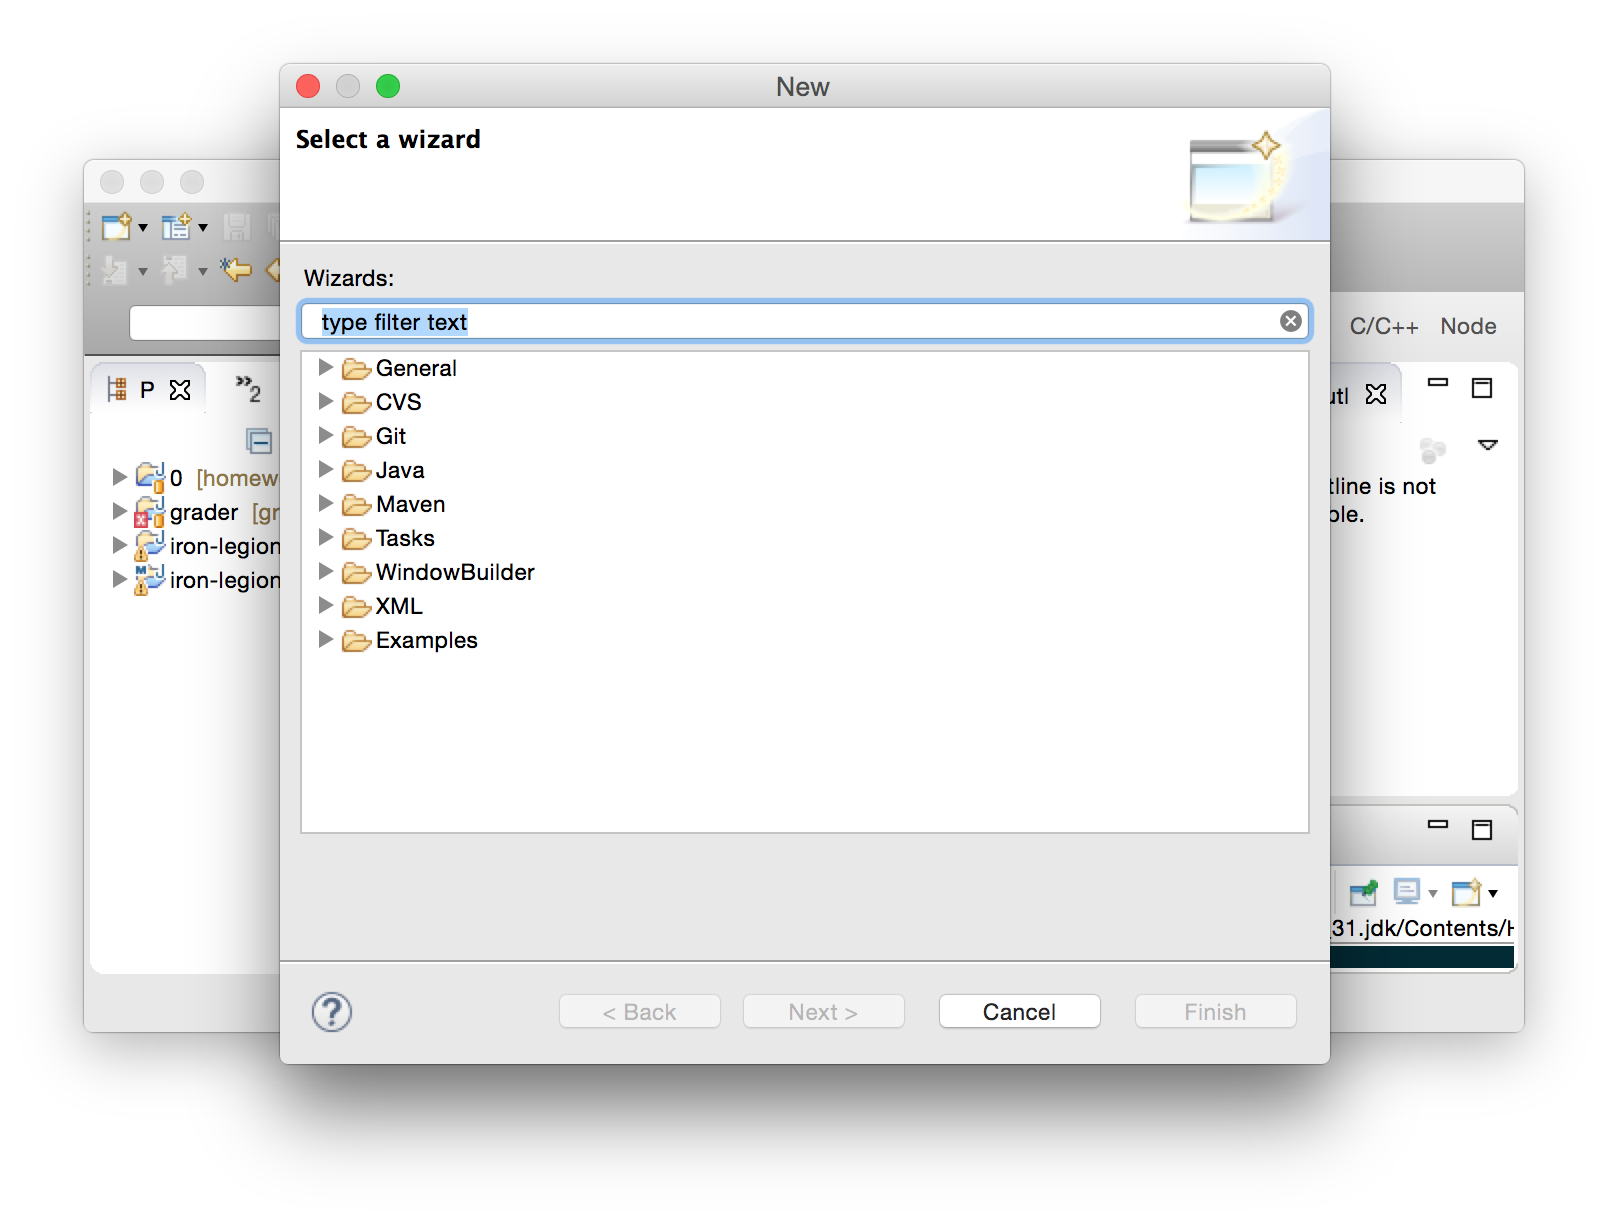
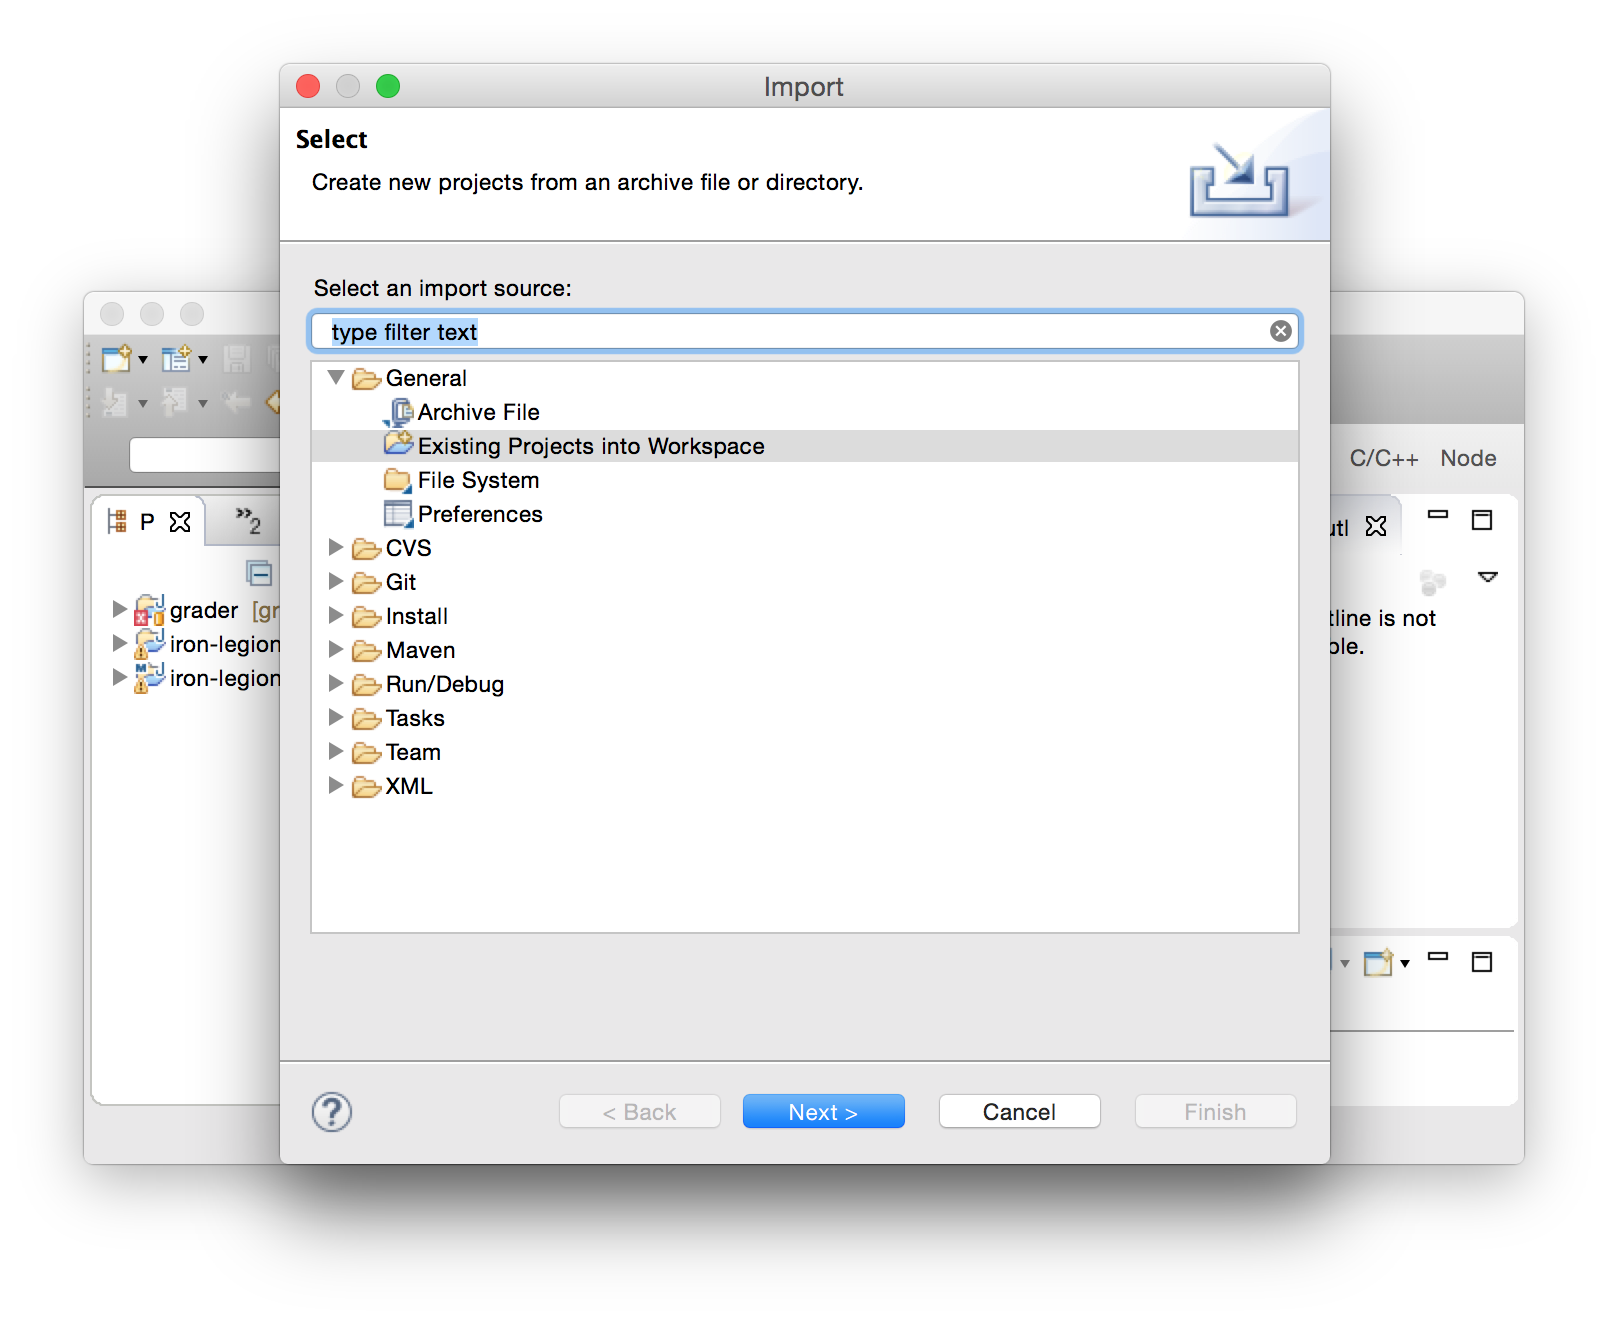
better import

diff --git a/eclipse.md b/eclipse.md
@@ -1,38 +1,27 @@
 # Eclipse Setup
 
-It's easy to use Eclipse! Just that this time, you won't be creating new projects. Instead, you'll be **importing projects** since we already created most of the directory structure for you.
+It's easy to use Eclipse! Just that this time, you won't be creating new projects. Instead, you'll be **importing projects into existing workspace** since we already created most of the directory structure for you.
 
 1. Fire up Eclipse. It should look like this:
 
 ![1](https://raw.githubusercontent.com/cs3134/admin/master/eclipse-screenshots/1.png?raw=true)
 
-2. Bang `ctrl-n` (Windows) or `cmd-n` (Mac) (if you're on Linux, you know the equivalent).
+2. In the main menu bar, select `File > Import`. In the window that pops up, select `Existing Projects into Workspace`
 
 ![2](https://raw.githubusercontent.com/cs3134/admin/master/eclipse-screenshots/2.png?raw=true)
 
-3. Select `Java Project`
+3. This window should pop up. Select "Browse"
 
 ![3](https://raw.githubusercontent.com/cs3134/admin/master/eclipse-screenshots/3.png?raw=true)
 
-4. This should pop up. Do not enter anything for the Project name or anything else.
+4. Navigate to the `homework-<youruni>` directory. **This is critical:** Do not add the specific homework (eg. `homework-<youruni>/0`). Instead, add the entire directory `homework-<youruni>`.
 
 ![4](https://raw.githubusercontent.com/cs3134/admin/master/eclipse-screenshots/4.png?raw=true)
 
-5. Uncheck `Use default location` and click on the "Browse" next to the Location bar.
+5. You should see all the homeworks you have so far being identified as separate projects. If that's correct, click "Finish"
 
 ![5](https://raw.githubusercontent.com/cs3134/admin/master/eclipse-screenshots/5.png?raw=true)
 
-6. A file selection dialog should open. **This is critical:** Go to the folder containing the specific homework. ie. for hw0, go to `homework-<youruni>/0`. **Do not add `homework-<youruni>`** Instead, add the subfolder for your homework. **Do not add the /src only as well. Make sure you add the entire 0 folder**
+6. Now you can see your homework (and just that specific homework) as a project in Eclipse.
 
 ![6](https://raw.githubusercontent.com/cs3134/admin/master/eclipse-screenshots/6.png?raw=true)
-
-7. The details should look like this. You may have a different location depending on where you save your homeworks.
-
-![7](https://raw.githubusercontent.com/cs3134/admin/master/eclipse-screenshots/7.png?raw=true)
-
-
-8. Now you can see your homework (and just that specific homework) as a project in Eclipse.
-
-![8](https://raw.githubusercontent.com/cs3134/admin/master/eclipse-screenshots/8.png?raw=true)
-
-You'll need to do this for every homework (as you would any project in Eclipse).
